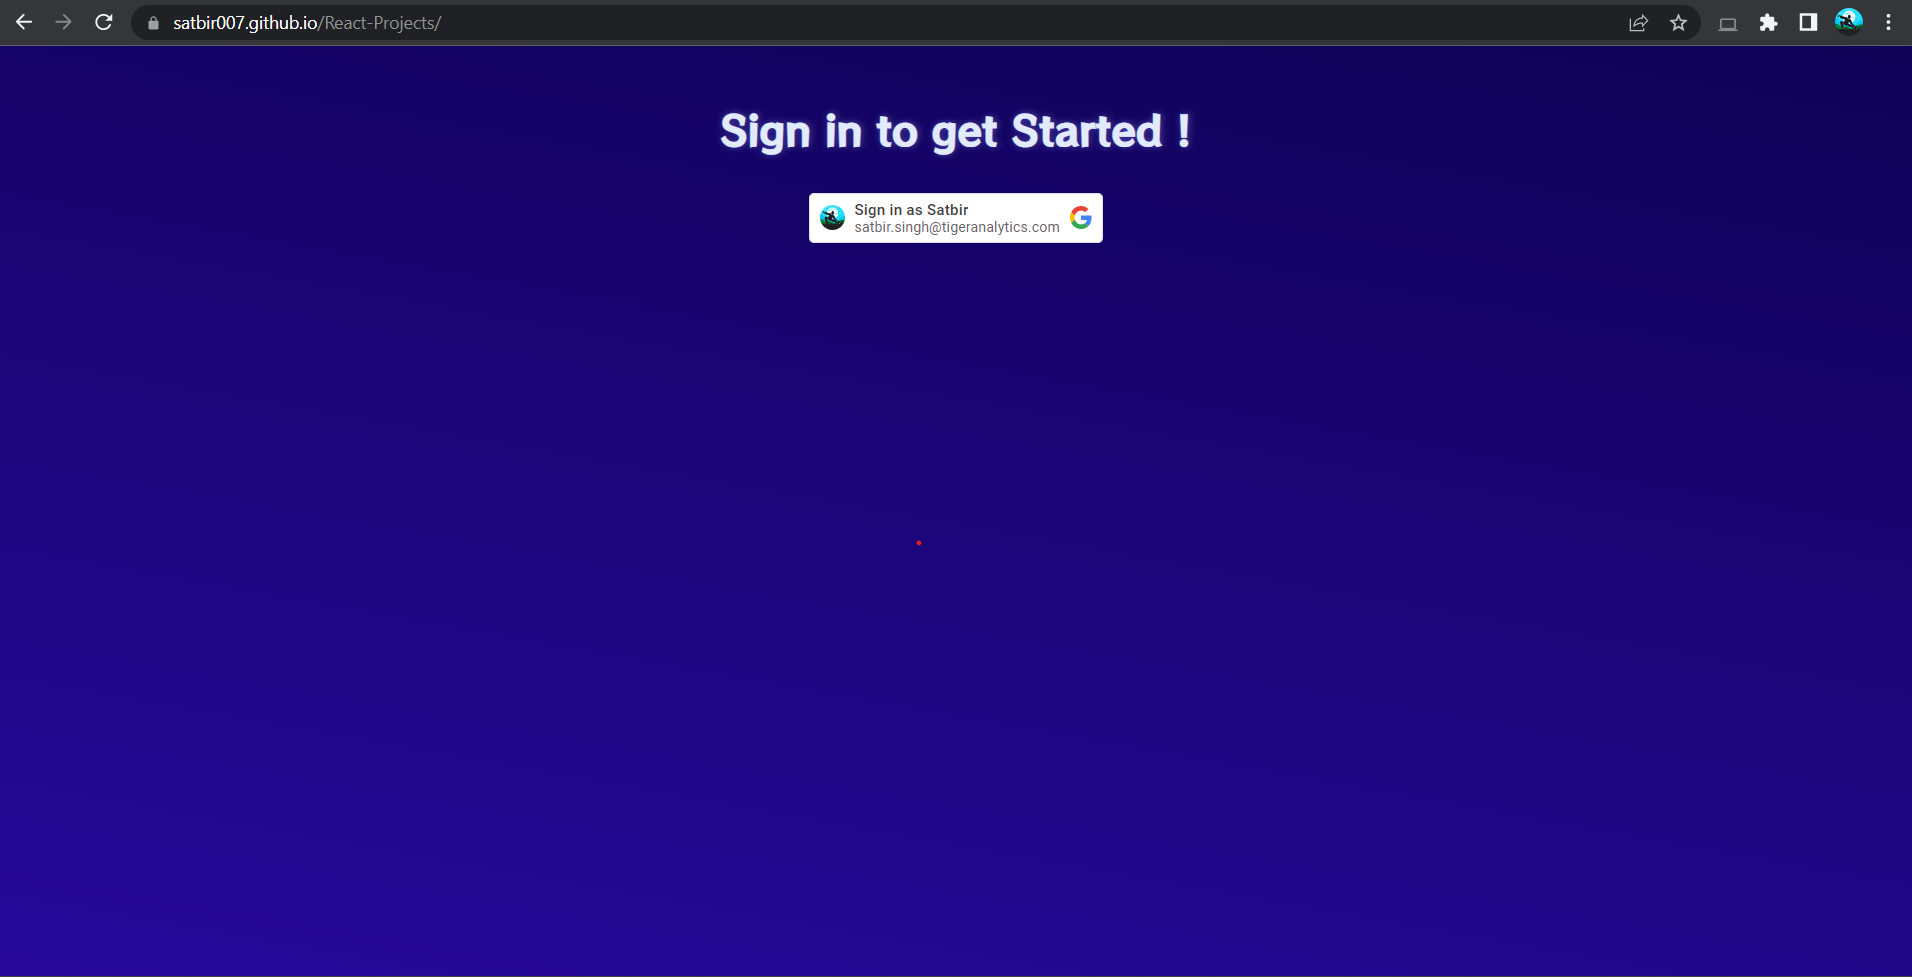
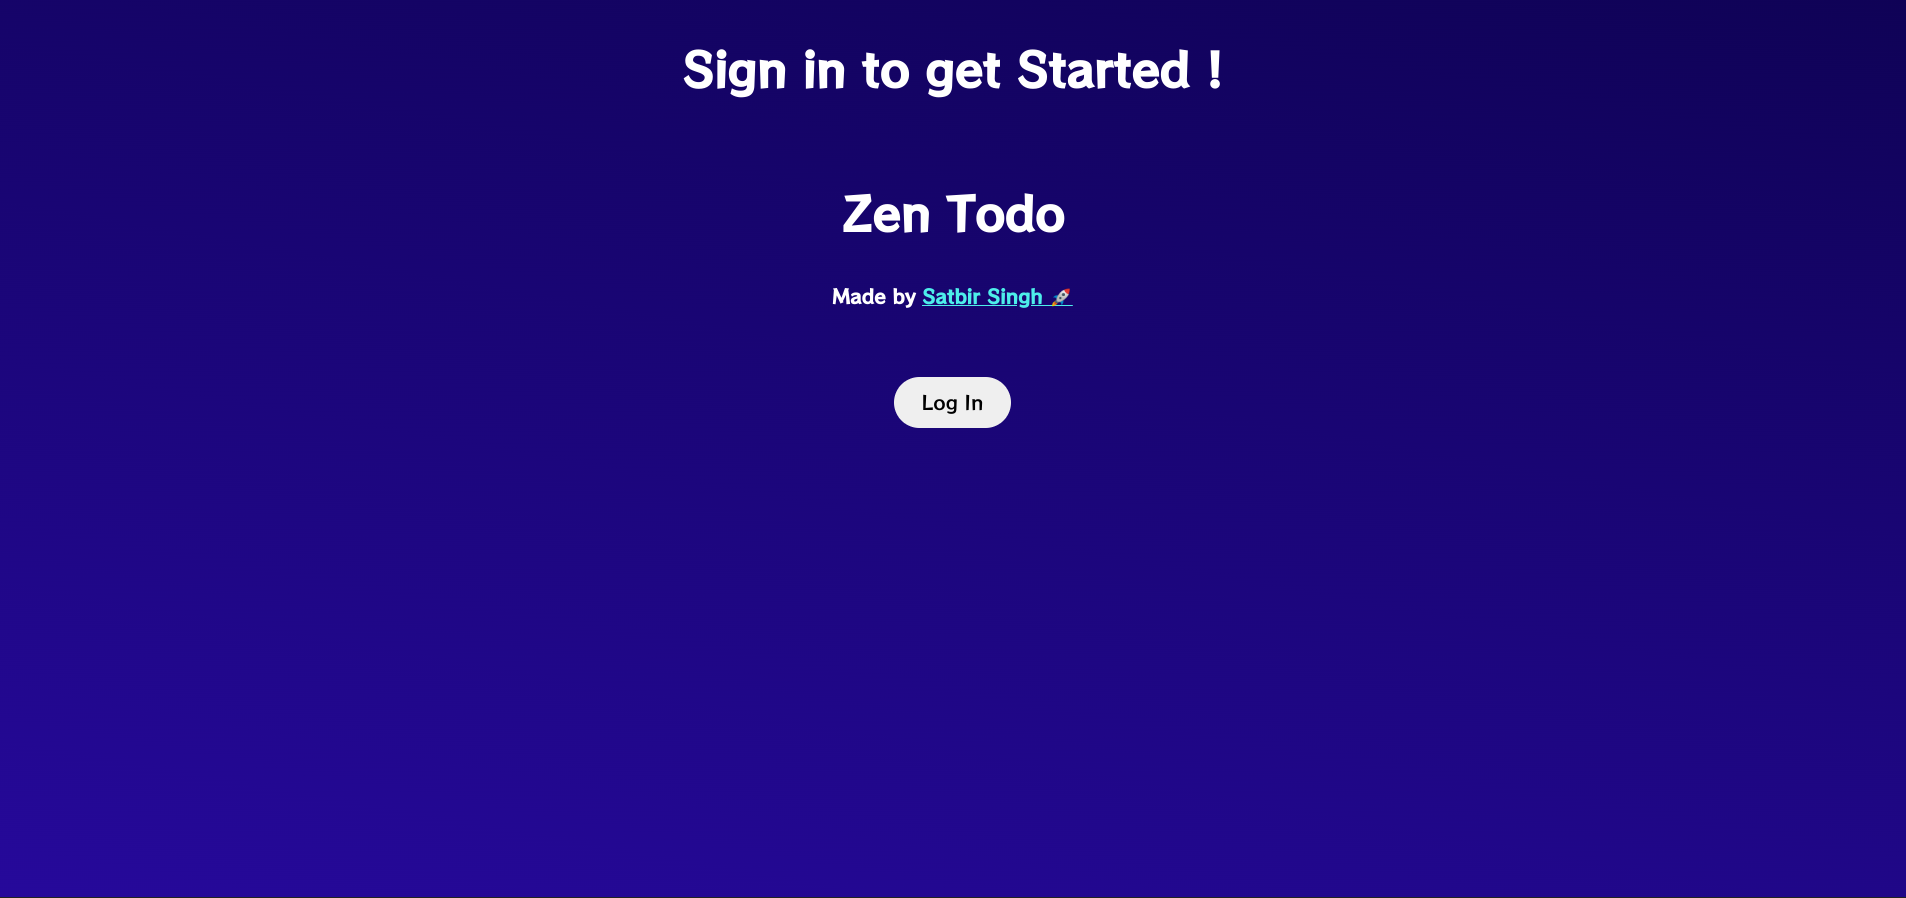
updated reademe and metadata

diff --git a/public/index.html b/public/index.html
@@ -7,25 +7,12 @@
     <meta name="theme-color" content="#000000" />
     <meta
       name="description"
-      content="Web site created using create-react-app"
+      content="ZenTodo – your go-to todo app for conquering your day!s"
     />
     <link rel="apple-touch-icon" href="%PUBLIC_URL%/logo192.png" />
-    <!--
-      manifest.json provides metadata used when your web app is installed on a
-      user's mobile device or desktop. See https://developers.google.com/web/fundamentals/web-app-manifest/
-    -->
     <link rel="manifest" href="%PUBLIC_URL%/manifest.json" />
-    <!--
-      Notice the use of %PUBLIC_URL% in the tags above.
-      It will be replaced with the URL of the `public` folder during the build.
-      Only files inside the `public` folder can be referenced from the HTML.
 
-      Unlike "/favicon.ico" or "favicon.ico", "%PUBLIC_URL%/favicon.ico" will
-      work correctly both with client-side routing and a non-root public URL.
-      Learn how to configure a non-root public URL by running `npm run build`.
-    -->
-    <title>React App</title>
-    <script src="https://accounts.google.com/gsi/client" async defer></script>
+    <title>ZenTodo</title>
   </head>
   <body>
     <noscript>You need to enable JavaScript to run this app.</noscript>

diff --git a/src/components/Header.js b/src/components/Header.js
@@ -14,7 +14,7 @@ const Header = () => {
         transition={{ type: "spring", duration: 0.5 }}
         whileHover={{ scale: 1.1 }}
       >
-        Todo App
+        Zen Todo
       </motion.h1>
       <motion.h5>
         Made by{" "}

diff --git a/README.md b/README.md
@@ -1,4 +1,4 @@
-# TODO LIST
+# Zen Todo App
 
 ## Features
 
